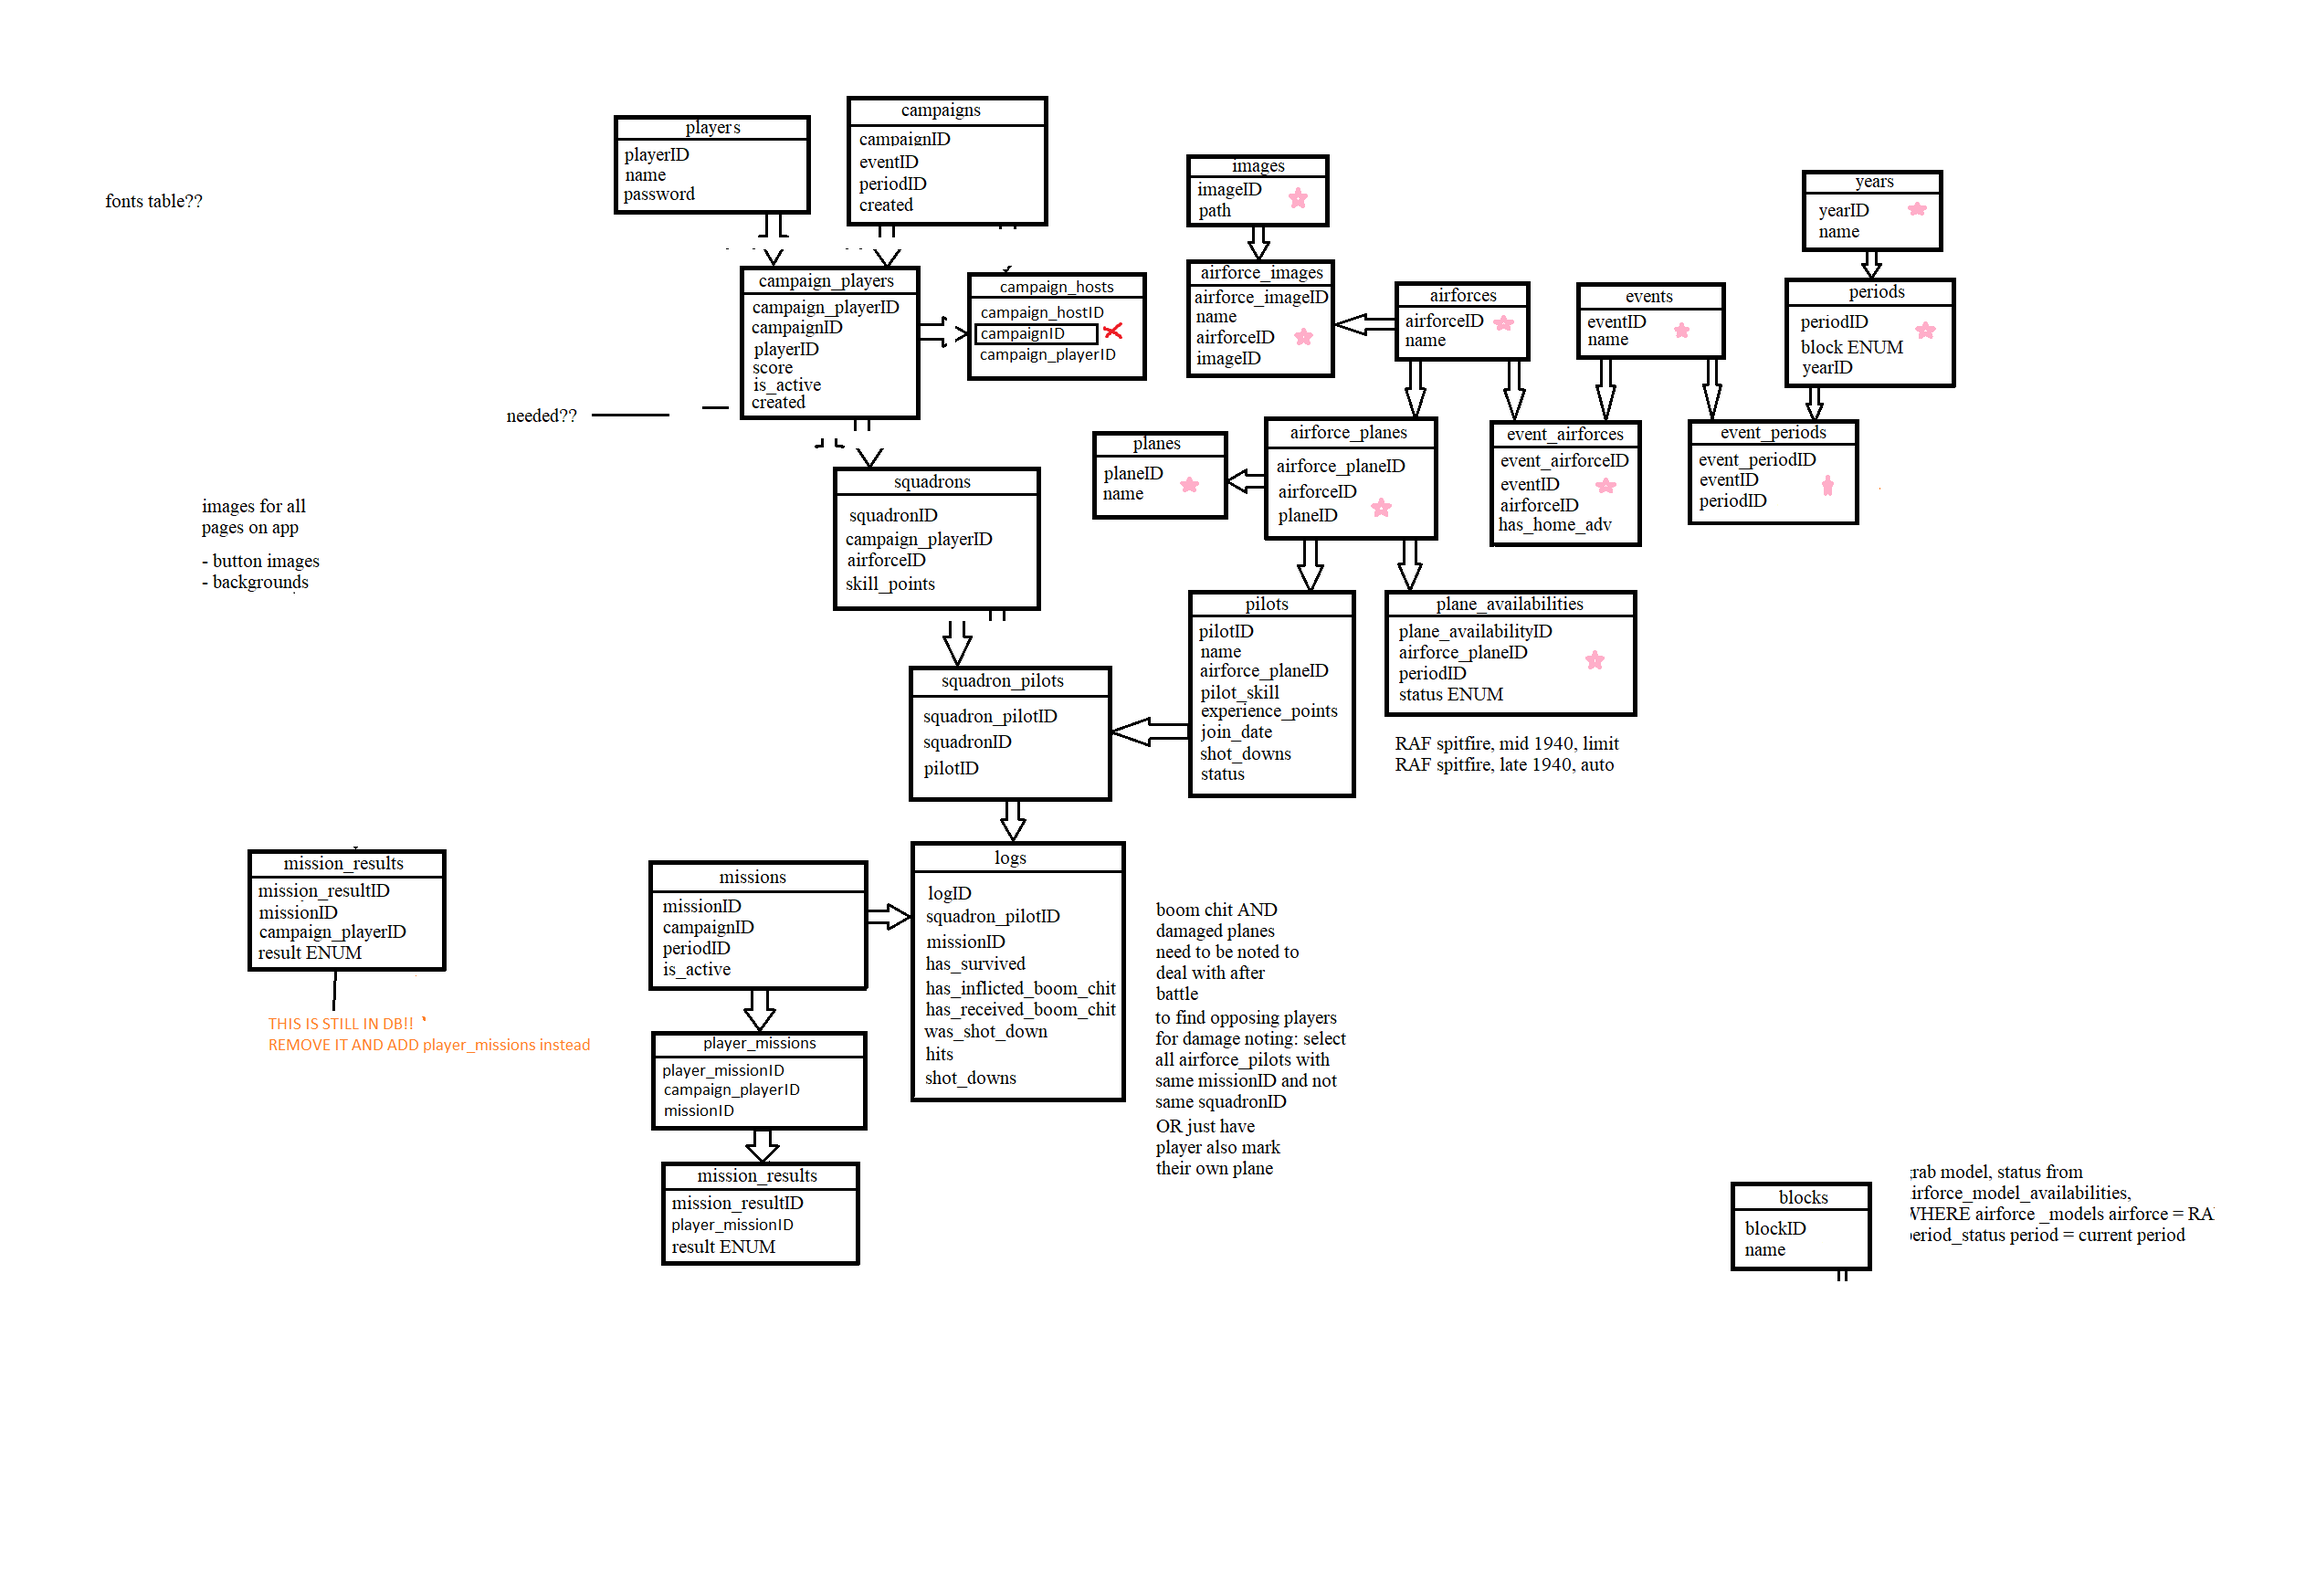
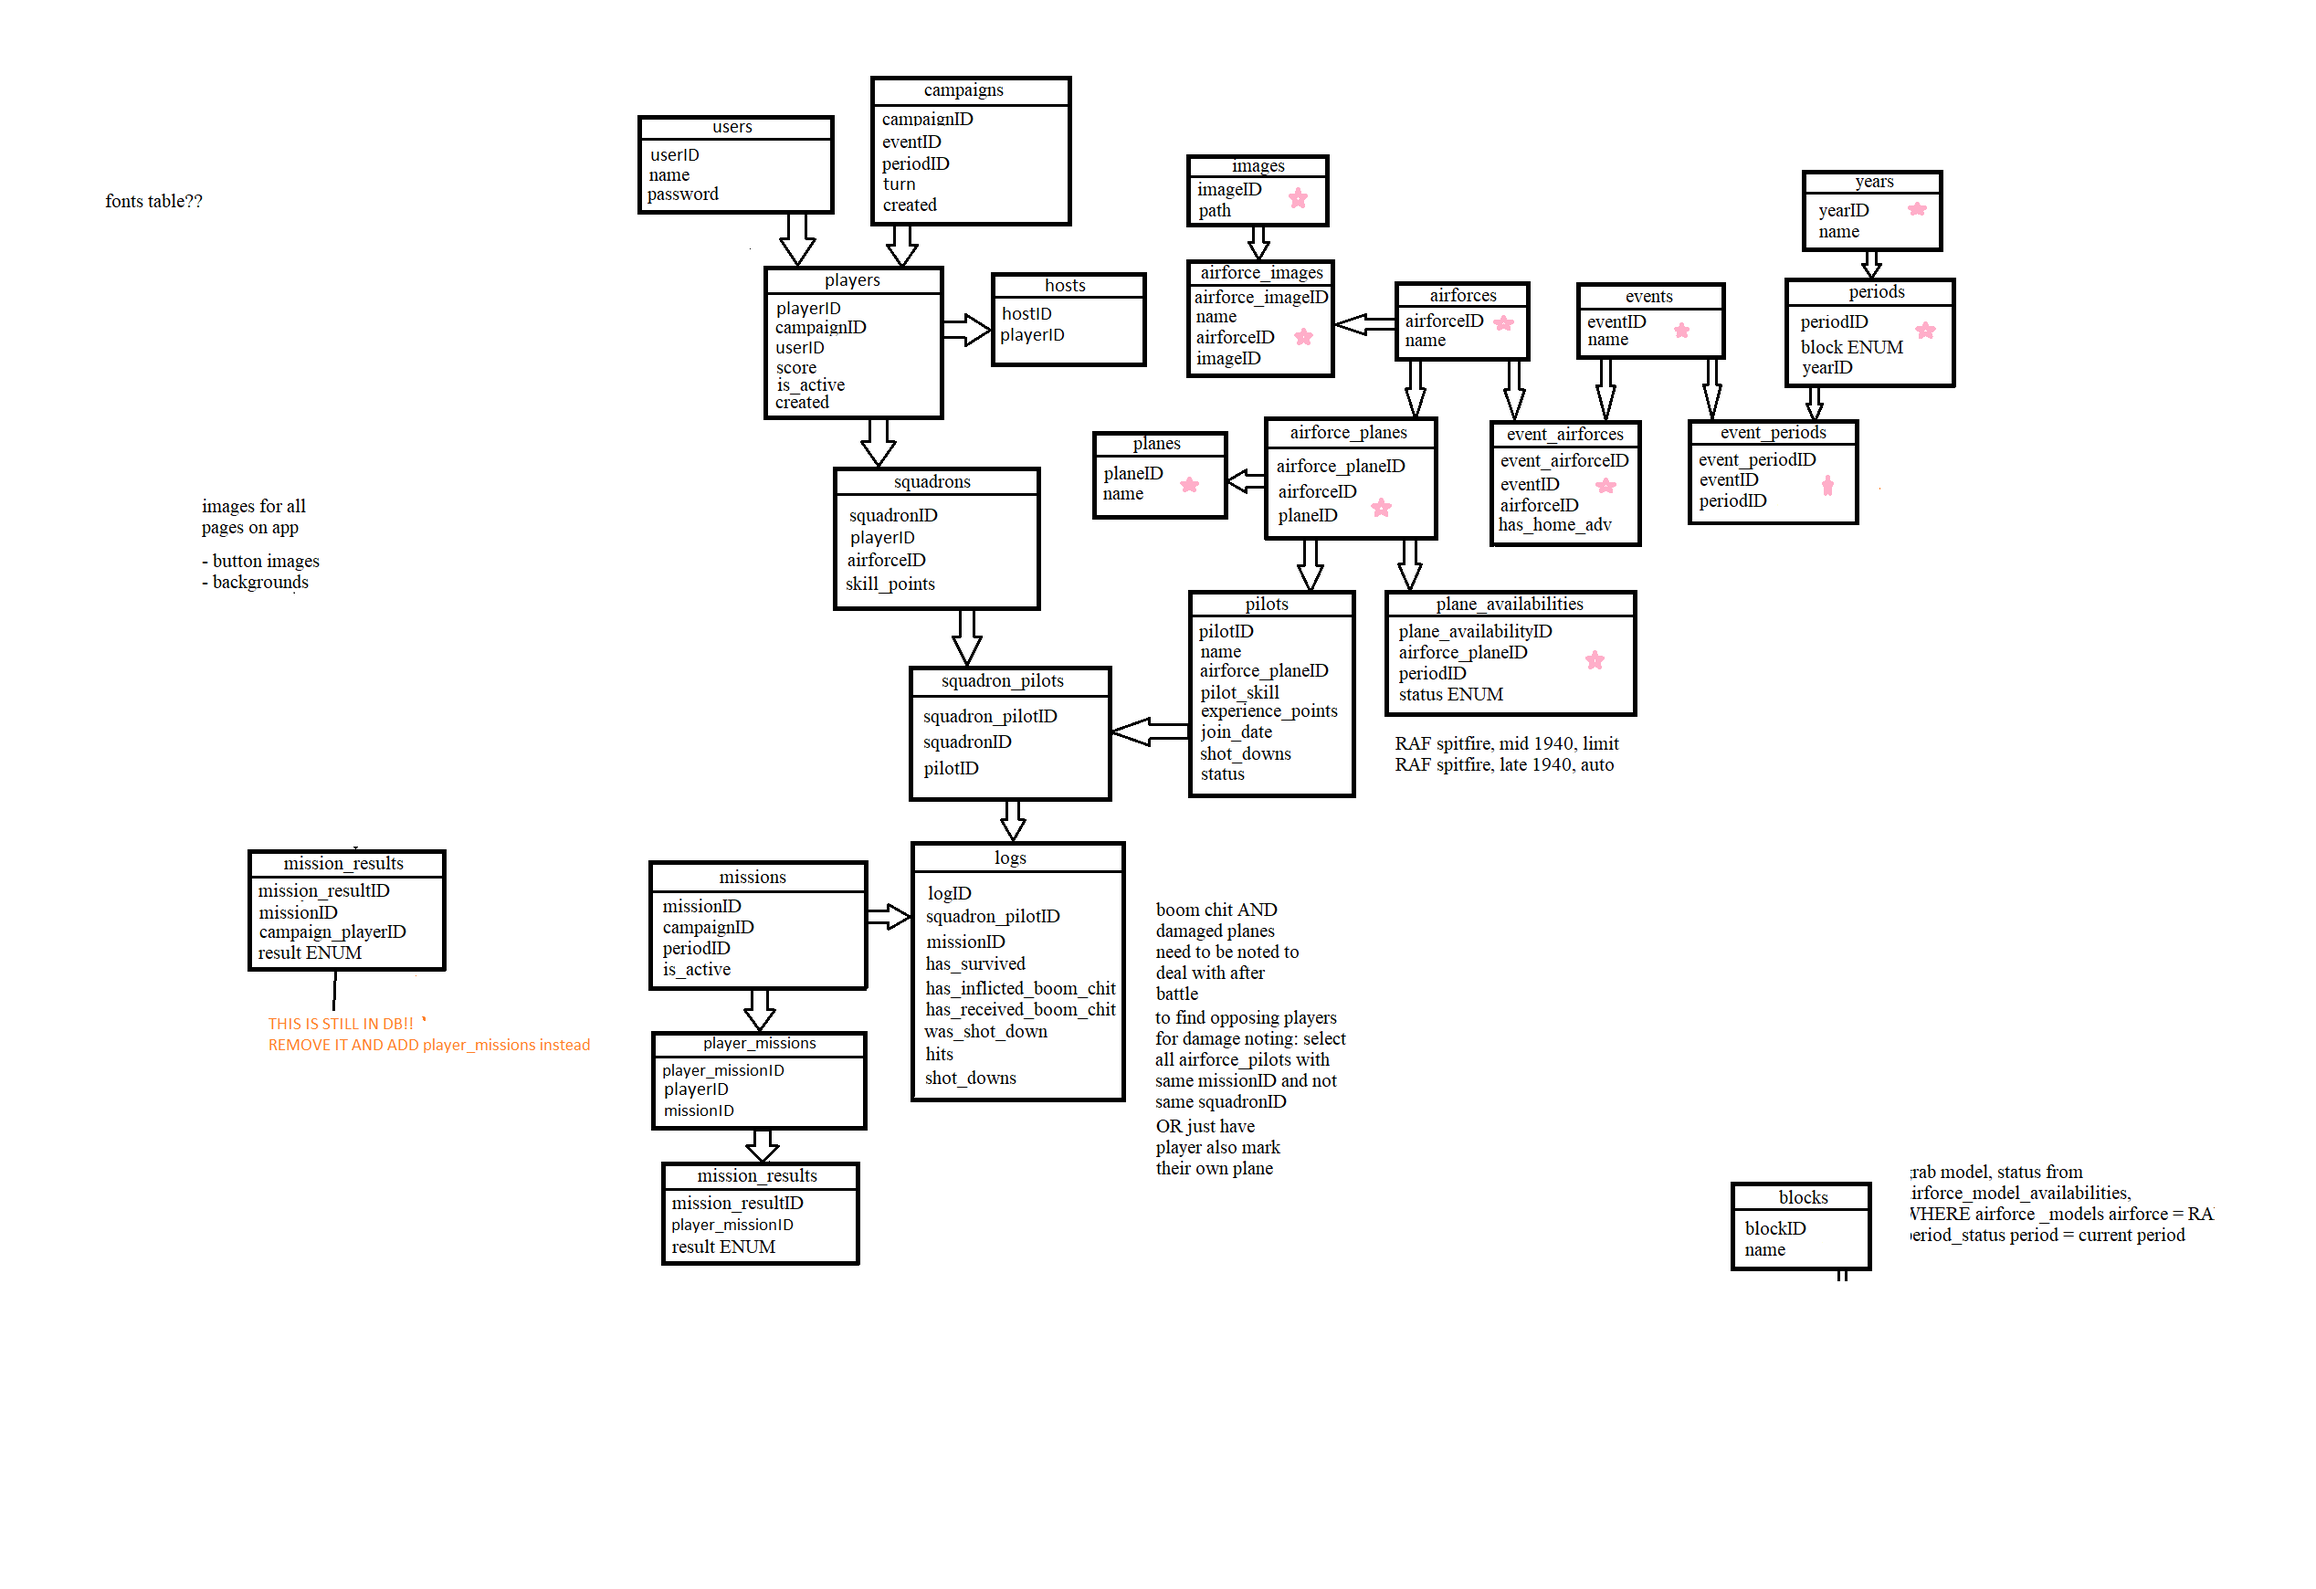
update schema

diff --git a/Workspace/CampaignTracker/src/model/Campaign.java b/Workspace/CampaignTracker/src/model/Campaign.java
@@ -18,12 +18,12 @@ public class Campaign implements Loadable{
 	private int id; //id of campaign
 	private Event event; //historical event covered 
 	private Period period; //current period of history
-	private int turnNum; //current turn number
+	private int turn; //current turn number
 	private Timestamp created; //time stamp when created
 	private String host; //name of host
 	private Map<String, Player>nameToPlayer = new TreeMap<String, Player>(); //players involved
 	
-	private boolean isAllDownloaded = false; //if fully downloaded from db
+	private boolean isAllDownloaded = false; //if fully downloaded from db //+++++++++++++++++'isFullDownload'?? 
 	////////////////private boolean isAllUploaded = false; //if fully uploaded from db
 	
 	private Campaign() {} //blank constructor
@@ -97,7 +97,7 @@ public class Campaign implements Loadable{
 		
 	//get current progress:
 	public double getProgress() {
-		return (((double) turnNum) / event.getMaxTurns()); //current turn / max turns
+		return (((double) turn) / event.getMaxTurns()); //current turn / max turns
 	}
 	
 	//return whether user is present in campaign:
@@ -107,7 +107,7 @@ public class Campaign implements Loadable{
 	
 	@Override
 	public String toString() {
-		return "Campaign [id=" + id + ", event=" + event + ", period=" + period + ", turnNum=" + turnNum + ", created="
+		return "Campaign [id=" + id + ", event=" + event + ", period=" + period + ", turnNum=" + turn + ", created="
 				+ created + ", host=" + host + ", nameToPlayer=" + nameToPlayer + "]";
 	}
 	

diff --git a/Workspace/CampaignTracker/src/controller/CampaignController.java b/Workspace/CampaignTracker/src/controller/CampaignController.java
@@ -36,14 +36,21 @@ public class CampaignController implements Rootable, Frameable{
     //fxml root node:
   	private Parent root; 
   	
-  	private final Campaign campaign;
+  	private /*final*/ Campaign campaign;
     
 	//constructor:
 	CampaignController(Campaign campaign){
 		setRoot(); //set root node
-		this.campaign = campaign; //assign  campaign
+		setCampaign(campaign);
+		//////////////TRY LOAD CAMPAIGN:
+		
+		
+		
+		//IF CANT, THEN GRAB FROM SAVED CAMPAIGN USING ID
+		
+		
 		//////////////stage.setScene(scene); //add scene to stage
-		eventNameLbl.setText(Integer.toString(campaign.getId()));
+		
 		
 		
 		/*
@@ -54,6 +61,28 @@ public class CampaignController implements Rootable, Frameable{
 		  	  System.out.println("was clicked "); 
 		  }*/
 	}
+	
+	
+	private void setCampaign(Campaign campaign) {
+		
+		//if campaign hasn't been fully downloaded:
+		if(!campaign.getIsAllDownloaded()) {
+			
+			//download campaign:
+			//++++++HAVE A LOADING ANIMATION HERE TOO! WHILE THIS DOWNLOADS! ++++++++++++++
+			
+			
+			//++++++++++++++HERE WE NEED TO LOK FOR CAMPAIGN IN SAVED DATA IF THIS IS UNSUCCESSFUL< AND USE RTHAT ONE> AND INBFORM USER OF ERROR DOWNLOADING! 
+			
+			
+		}else {this.campaign = campaign;} //else, assign campaign
+			
+		
+	}
+	
+	
+	
+	
 	
 	//show stage:
     /*void showStage() { 

diff --git a/Workspace/CampaignTracker/src/controller/CampaignsController.java b/Workspace/CampaignTracker/src/controller/CampaignsController.java
@@ -137,12 +137,12 @@ public class CampaignsController implements Frameable, Rootable {
 		
 		//get time stamp of creation:
 		Timestamp timestamp = new Timestamp(Calendar.getInstance().getTimeInMillis());
-		
+		//++++++++++++++++++++++++++++++++++++++++++++++++HAVE ISERT BELOW BE IN A TRY, AND IF NOT SUCCEFULL INFORM USER & 
 		//insert campaign to db, storing returned id:
 		int campaignId = database.InsertCampaign.insert(event.getName(), LoginController.getUserId(), timestamp); 
 		
 		//create local campaign:
-		Campaign campaign = new Campaign.CampaignBuilder()
+		Campaign campaign = new Campaign.CampaignBuilder() //+++++++++++++++MARK AS NOT FULLY UPLOADED!!! 
 		.setEvent(new Event.EventBuilder()
 				.setName(event.getName()) //set event name
 				.setAirForces(event.getAirForces()) //set event air forces
